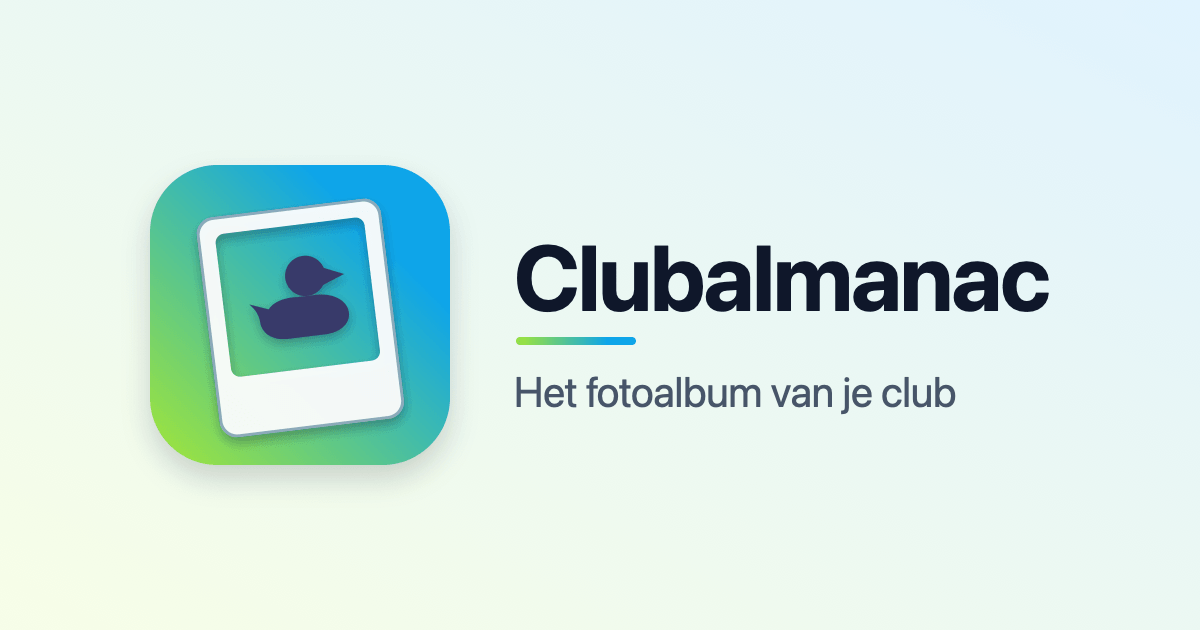
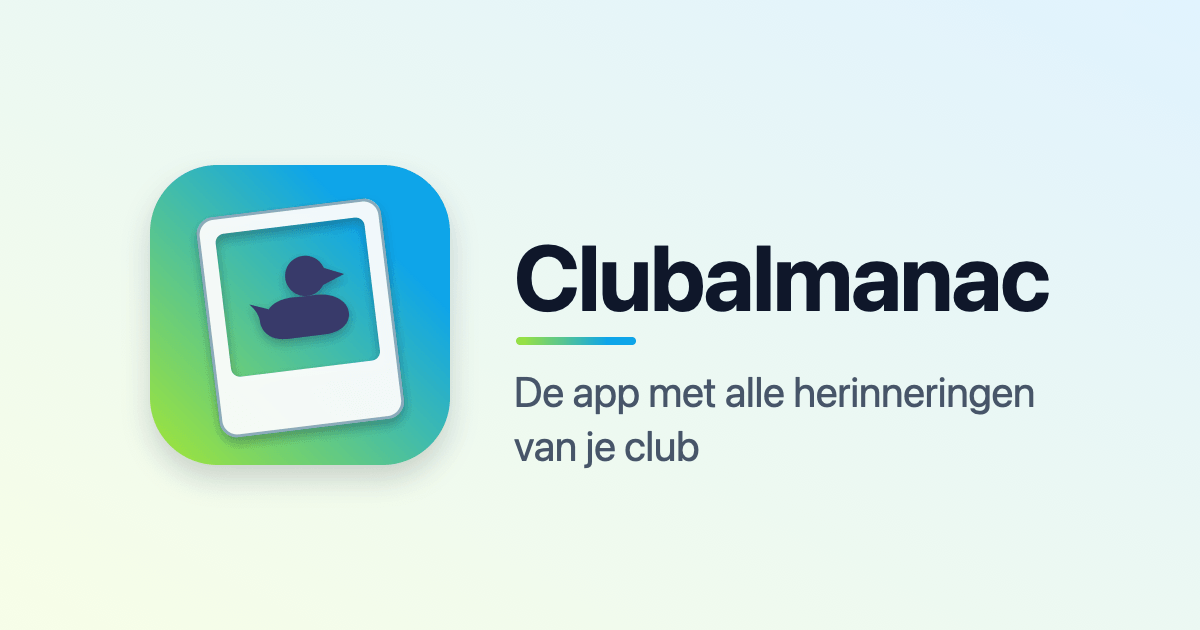
feat: regie — linkvoorbeeld: De app met alle herinneringen van je club

Changed region(s): [[0.4317, 0.6032, 0.8633, 0.6635], [0.4317, 0.6937, 0.5858, 0.754]]

diff --git a/app/public/index.html b/app/public/index.html
@@ -6,11 +6,11 @@
     <meta name="viewport" content="width=device-width, initial-scale=1, shrink-to-fit=no" />
     <title>%WEB_TITLE%</title>
     <!-- Linkvoorbeeld in WhatsApp en Signal (Open Graph). Het plaatje maakt scripts/build-share-image.mjs. -->
-    <meta name="description" content="Het fotoalbum van je club. Log in met je e-mailadres en een code." />
+    <meta name="description" content="De app met alle herinneringen van je club. Log in met je e-mailadres en een code." />
     <meta property="og:type" content="website" />
     <meta property="og:site_name" content="Clubalmanac" />
     <meta property="og:title" content="Clubalmanac" />
-    <meta property="og:description" content="Het fotoalbum van je club. Log in met je e-mailadres en een code." />
+    <meta property="og:description" content="De app met alle herinneringen van je club. Log in met je e-mailadres en een code." />
     <meta property="og:url" content="https://app.clubalmanac.com/" />
     <meta property="og:image" content="https://app.clubalmanac.com/og.png" />
     <meta property="og:image:width" content="1200" />

diff --git a/site/index.html b/site/index.html
@@ -4,11 +4,11 @@
 <meta charset="utf-8">
 <meta name="viewport" content="width=device-width, initial-scale=1">
 <title>clubalmanac</title>
-<meta name="description" content="Het fotoalbum van je club.">
+<meta name="description" content="De app met alle herinneringen van je club.">
 <meta property="og:type" content="website">
 <meta property="og:site_name" content="Clubalmanac">
 <meta property="og:title" content="Clubalmanac">
-<meta property="og:description" content="Het fotoalbum van je club.">
+<meta property="og:description" content="De app met alle herinneringen van je club.">
 <meta property="og:url" content="https://clubalmanac.com/">
 <meta property="og:image" content="https://app.clubalmanac.com/og.png">
 <meta property="og:image:width" content="1200">
